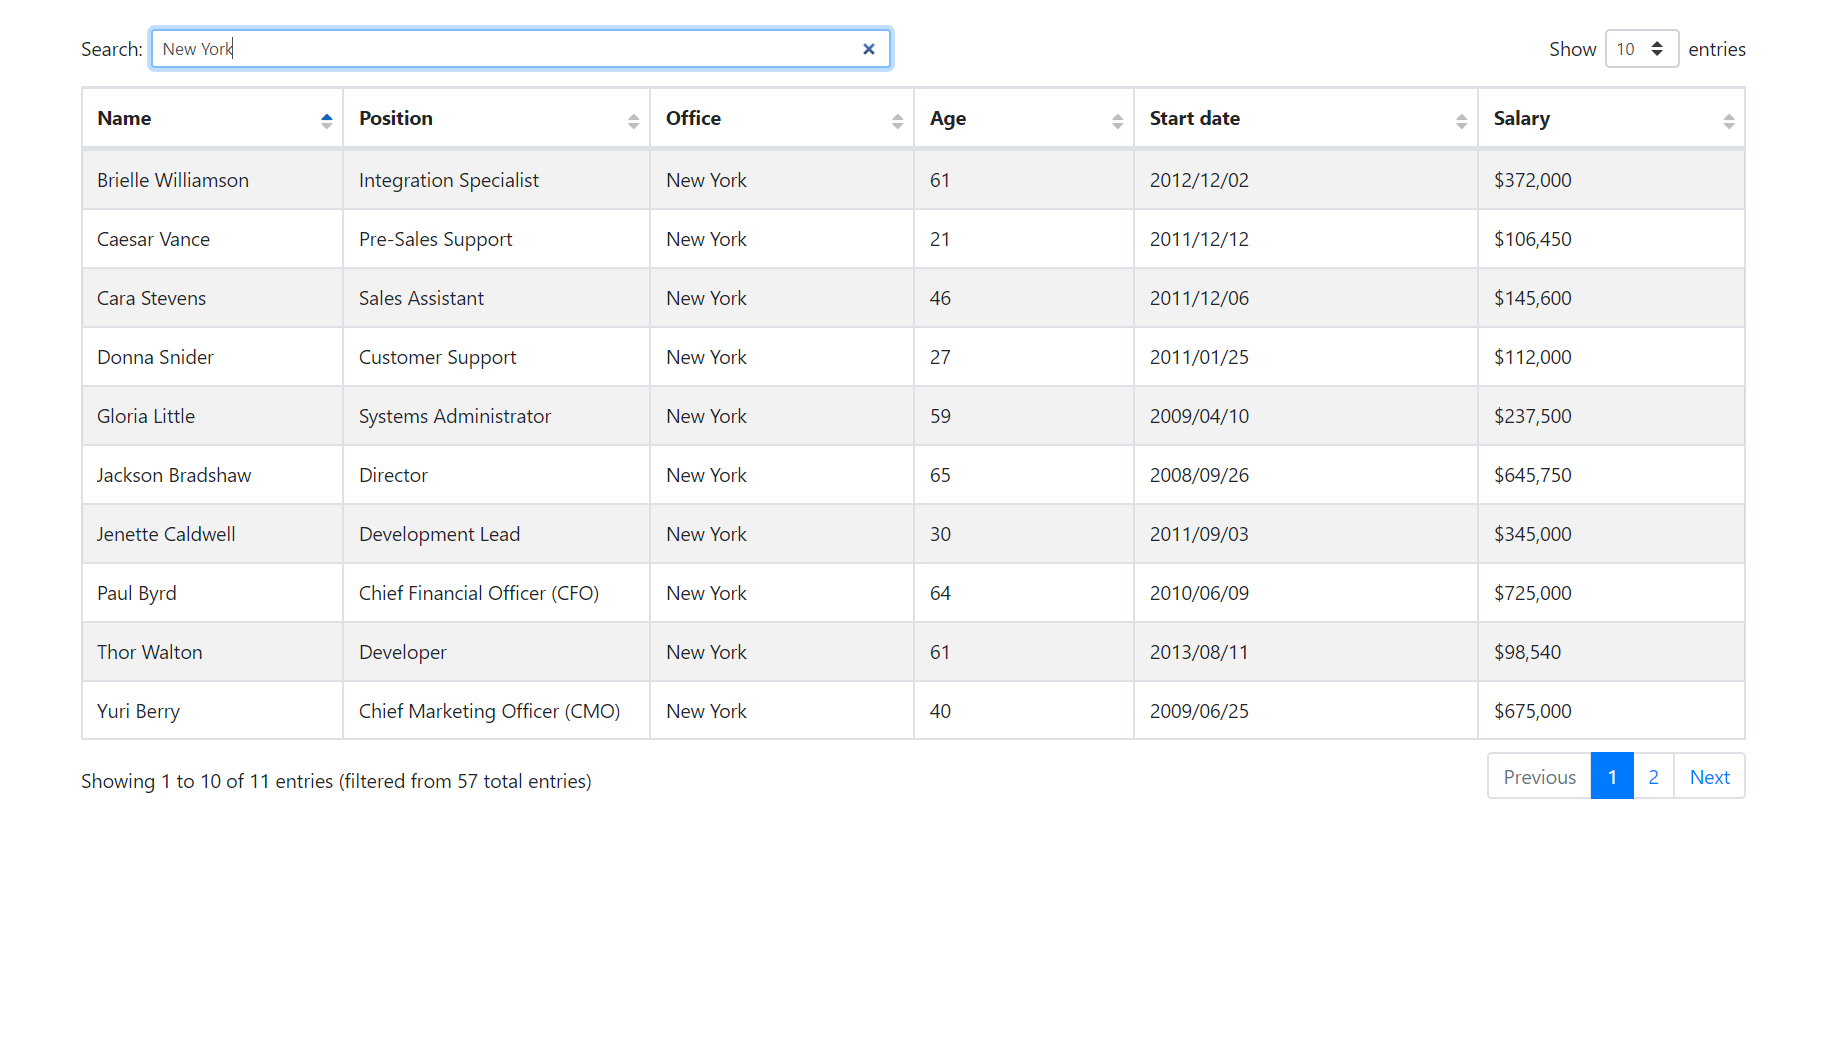
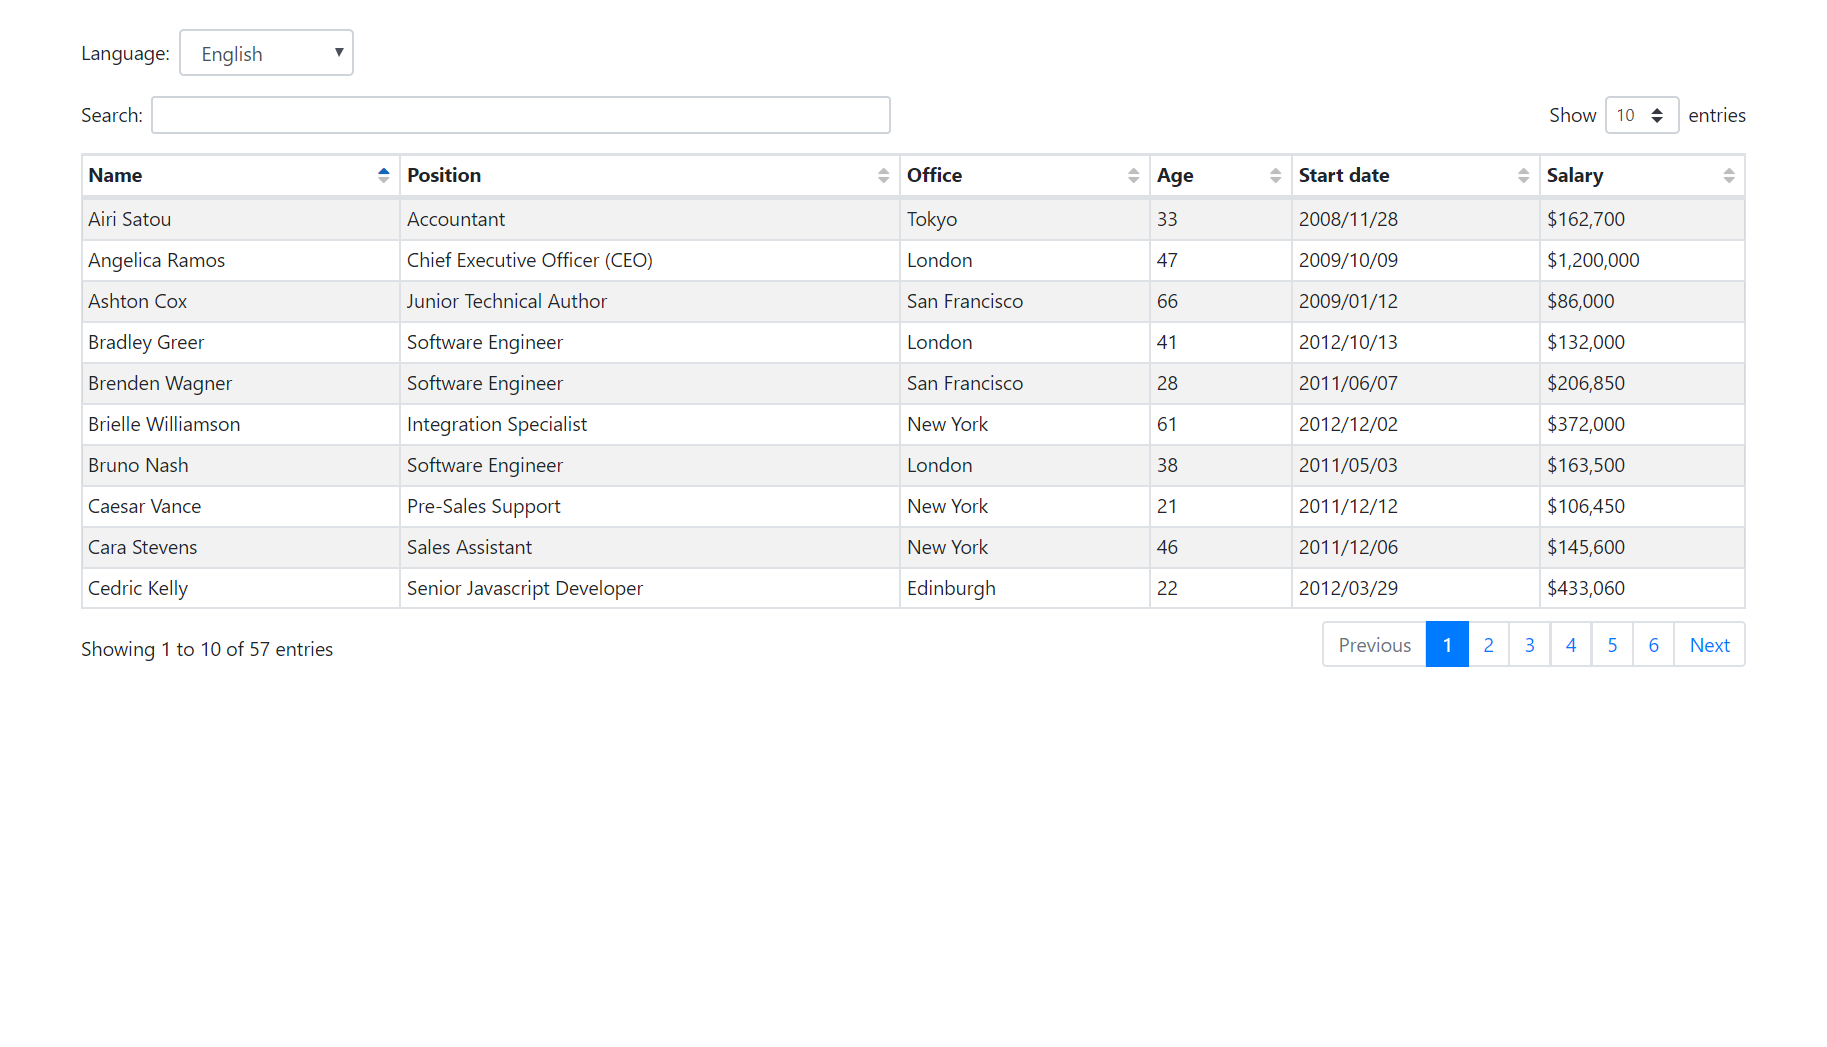
Added sample to get language selection and server side data

diff --git a/index.html b/index.html
@@ -7,81 +7,96 @@
   <link rel="stylesheet" type="text/css" href="node_modules/bootstrap/dist/css/bootstrap.min.css">
   <link rel="stylesheet" type="text/css" href="node_modules/datatables.net-bs4/css/dataTables.bootstrap4.min.css">
   <link rel="stylesheet" type="text/css" href="node_modules/@fortawesome/fontawesome-free/css/all.min.css">
-  <style>
-
-    html {
-      font-size: 13px;
-    }
-
-    /* Search filter */
-    .dataTables_filter label {
-      display: flex;
-      align-items: center;
-    }
-
-      .dataTables_filter label input[type='search'] {
-        flex: 1;
-      }
-
-    /* Number of displays */
-    .dataTables_length label {
-      display: flex;
-      justify-content: flex-end;
-      align-items: center;
-    }
-
-      .dataTables_length label select {
-        margin: 0 .5em;
-      }
-
-    /* Sort icon */
-    table.dataTable thead .sorting:before,
-    table.dataTable thead .sorting:after,
-    table.dataTable thead .sorting_asc:before,
-    table.dataTable thead .sorting_asc:after,
-    table.dataTable thead .sorting_desc:before,
-    table.dataTable thead .sorting_desc:after,
-    table.dataTable thead .sorting_asc_disabled:before,
-    table.dataTable thead .sorting_asc_disabled:after,
-    table.dataTable thead .sorting_desc_disabled:before,
-    table.dataTable thead .sorting_desc_disabled:after {
-      top: 50% !important;
-      right: .5em !important;
-      bottom: initial !important;
-      transform: translateY(-50%);
-      font-family: "Font Awesome 5 Free";
-    }
-
-    /* Ascending sort icon */
-    table.dataTable thead .sorting:before,
-    table.dataTable thead .sorting_asc:before,
-    table.dataTable thead .sorting_desc:before,
-    table.dataTable thead .sorting_asc_disabled:before,
-    table.dataTable thead .sorting_desc_disabled:before {
-      content: "\f0de";
-    }
-
-    /* Descending sort icon */
-    table.dataTable thead .sorting:after,
-    table.dataTable thead .sorting_asc:after,
-    table.dataTable thead .sorting_desc:after,
-    table.dataTable thead .sorting_asc_disabled:after,
-    table.dataTable thead .sorting_desc_disabled:after {
-      content: "\f0dd";
-    }
-
-    /* Active sort icon */
-    table.dataTable thead .sorting_asc:before,
-    table.dataTable thead .sorting_desc:after {
-      color: #16b;
-    }
-
-  </style>
+  <link rel="stylesheet" type="text/css" href="assets/style.css">
 </head>
 <body>
 
   <div class="container mt-4">
+
+    <div class="form-group form-inline align-items-center">
+      <label class="mr-2">Language:</label>
+      <select id="lang" class="form-control w-auto">
+        <option value="Afrikaans">Afrikaans</option>
+        <option value="Albanian">Albanian</option>
+        <option value="Amharic">Amharic</option>
+        <option value="Arabic">Arabic</option>
+        <option value="Armenian">Armenian</option>
+        <option value="Azerbaijan">Azerbaijan</option>
+        <option value="Bangla">Bangla</option>
+        <option value="Basque">Basque</option>
+        <option value="Belarusian">Belarusian</option>
+        <option value="Bulgarian">Bulgarian</option>
+        <option value="Catalan">Catalan</option>
+        <option value="Chinese">Chinese</option>
+        <option value="Chinese-traditional">traditional</option>
+        <option value="Croatian">Croatian</option>
+        <option value="Czech">Czech</option>
+        <option value="Danish">Danish</option>
+        <option value="Dutch">Dutch</option>
+        <option value="English" selected>English</option>
+        <option value="Esperanto">Esperanto</option>
+        <option value="Estonian">Estonian</option>
+        <option value="Filipino">Filipino</option>
+        <option value="Finnish">Finnish</option>
+        <option value="French">French</option>
+        <option value="Galician">Galician</option>
+        <option value="Georgian">Georgian</option>
+        <option value="German">German</option>
+        <option value="Greek">Greek</option>
+        <option value="Gujarati">Gujarati</option>
+        <option value="Hebrew">Hebrew</option>
+        <option value="Hindi">Hindi</option>
+        <option value="Hungarian">Hungarian</option>
+        <option value="Icelandic">Icelandic</option>
+        <option value="Indonesian-Alternative">Alternative</option>
+        <option value="Indonesian">Indonesian</option>
+        <option value="Irish">Irish</option>
+        <option value="Italian">Italian</option>
+        <option value="Japanese">Japanese</option>
+        <option value="Kazakh">Kazakh</option>
+        <option value="Khmer">Khmer</option>
+        <option value="Korean">Korean</option>
+        <option value="Kurdish">Kurdish</option>
+        <option value="Kyrgyz">Kyrgyz</option>
+        <option value="Lao">Lao</option>
+        <option value="Latvian">Latvian</option>
+        <option value="Lithuanian">Lithuanian</option>
+        <option value="Macedonian">Macedonian</option>
+        <option value="Malay">Malay</option>
+        <option value="Mongolian">Mongolian</option>
+        <option value="Nepali">Nepali</option>
+        <option value="Norwegian-Bokmal">Bokmal</option>
+        <option value="Norwegian-Nynorsk">Nynorsk</option>
+        <option value="Pashto">Pashto</option>
+        <option value="Persian">Persian</option>
+        <option value="Polish">Polish</option>
+        <option value="Portuguese-Brasil">Brasil</option>
+        <option value="Portuguese">Portuguese</option>
+        <option value="Romanian">Romanian</option>
+        <option value="Russian">Russian</option>
+        <option value="Serbian">Serbian</option>
+        <option value="Serbian_latin">Serbian_latin</option>
+        <option value="Sinhala">Sinhala</option>
+        <option value="Slovak">Slovak</option>
+        <option value="Slovenian">Slovenian</option>
+        <option value="Spanish">Spanish</option>
+        <option value="Swahili">Swahili</option>
+        <option value="Swedish">Swedish</option>
+        <option value="Tajik">Tajik</option>
+        <option value="Tamil">Tamil</option>
+        <option value="telugu">telugu</option>
+        <option value="Thai">Thai</option>
+        <option value="Turkish">Turkish</option>
+        <option value="Ukrainian">Ukrainian</option>
+        <option value="Urdu">Urdu</option>
+        <option value="Uzbek">Uzbek</option>
+        <option value="Vietnamese">Vietnamese</option>
+        <option value="Welsh">Welsh</option>
+      </select>
+    </div>
+
     <table id="table" class="table table-sm table-striped table-bordered">
+
       <thead>
         <tr>
           <th>Name</th>
@@ -99,34 +114,7 @@
   <script src="node_modules/jquery/dist/jquery.min.js"></script>
   <script src="node_modules/datatables.net/js/jquery.dataTables.js"></script>
   <script src="node_modules/datatables.net-bs4/js/dataTables.bootstrap4.min.js"></script>
-  <script>
-    (async () => {
-
-      // Data table setup
-      const dt = $('#table').DataTable({
-        columnDefs: [
-          { data: 'name', targets: 0 },
-          { data: 'position', targets: 1 },
-          { data: 'office', targets: 2 },
-          { data: 'age', targets: 3 },
-          { data: 'date', targets: 4 },
-          { data: 'salary', targets: 5 }
-        ],
-        dom: 
-          `<'row'<'col-sm-12 col-md-6'f><'col-sm-12 col-md-6'l>>
-          <'row'<'col-sm-12'tr>>
-          <'row'<'col-sm-12 col-md-5'i><'col-sm-12 col-md-7'p>>`
-      });
-
-      // Load data from server
-      const rows = await $.getJSON('data.json');
-
-      // Show data rows
-      for (let row of rows) {
-        dt.row.add(row);
-      }
-      dt.draw(false);
-    })();
-  </script>
+  <script src="node_modules/js-cookie/src/js.cookie.js"></script>
+  <script src="assets/script.js"></script>
 </body>
 </html>

diff --git a/assets/script.js b/assets/script.js
@@ -1,0 +1,74 @@
+(async () => {
+
+  /**
+   * Data table setup
+   * 
+   * @return {DataTable}
+   */
+  async function setupDataTable(lang) {
+    const langJson = JSON.parse((await $.get(`node_modules/datatables.net-plugins/i18n/${lang}.lang`)).replace(/(\/\*([\s\S]*?)\*\/)|(\/\/(.*)$)/gm, ''));
+    const dt = $('#table').DataTable({
+      columnDefs: [
+        { data: 'name', targets: 0 },
+        { data: 'position', targets: 1 },
+        { data: 'office', targets: 2 },
+        { data: 'age', targets: 3 },
+        { data: 'date', targets: 4 },
+        { data: 'salary', targets: 5 }
+      ],
+      dom:
+        `<'row'<'col-sm-12 col-md-6'f><'col-sm-12 col-md-6'l>>
+        <'row'<'col-sm-12'tr>>
+        <'row'<'col-sm-12 col-md-5'i><'col-sm-12 col-md-7'p>>`,
+      language: langJson,
+
+      // Option to get table data from server side
+      // processing: true,// Set to true to display server side data loading message.
+      serverSide: true,
+      ajax: {
+        url: 'server-side/server_processing.php',
+
+        // If you don't want to change the data structure returned by the server, customize the data with the "ajax.data" option.
+        dataFilter: data => {
+          data = JSON.parse(data);
+          data.recordsTotal = data.total;
+          data.recordsFiltered = data.total;
+          data.data = data.list;
+          return JSON.stringify(data); // return JSON string
+        }
+      }
+    });
+    return dt;
+  }
+
+  /**
+   * Table data load
+   * 
+   * @return {void}
+   */
+  async function loadTableData() {
+    const rows = await $.getJSON('data.json');
+    for (let row of rows) {
+      dt.row.add(row);
+    }
+    dt.draw(false);
+  }
+
+  // language
+  const $lang = $('#lang');
+  if (Cookies.get('lang')) {
+    $lang.val(Cookies.get('lang'));
+  }
+
+  // Data table setup
+  const dt = await setupDataTable($lang.val());
+
+  // // Load data from server
+  // loadTableData();
+
+  // Change language
+  $lang.on('change', () => {
+    Cookies.set('lang', $lang.val());
+    location.reload();
+  });
+})();

diff --git a/assets/style.css b/assets/style.css
@@ -1,0 +1,67 @@
+html {
+  font-size: 13px;
+}
+
+/* Search filter */
+.dataTables_filter label {
+  display: flex;
+  align-items: center;
+}
+
+  .dataTables_filter label input[type='search'] {
+    flex: 1;
+  }
+
+/* Number of displays */
+.dataTables_length label {
+  display: flex;
+  justify-content: flex-end;
+  align-items: center;
+}
+
+  .dataTables_length label select {
+    margin: 0 .5em;
+  }
+
+/* Sort icon */
+table.dataTable thead .sorting:before,
+table.dataTable thead .sorting:after,
+table.dataTable thead .sorting_asc:before,
+table.dataTable thead .sorting_asc:after,
+table.dataTable thead .sorting_desc:before,
+table.dataTable thead .sorting_desc:after,
+table.dataTable thead .sorting_asc_disabled:before,
+table.dataTable thead .sorting_asc_disabled:after,
+table.dataTable thead .sorting_desc_disabled:before,
+table.dataTable thead .sorting_desc_disabled:after {
+  top: 50% !important;
+  right: .5em !important;
+  bottom: initial !important;
+  transform: translateY(-50%);
+  font-family: "Font Awesome 5 Free";
+}
+
+/* Ascending sort icon */
+table.dataTable thead .sorting:before,
+table.dataTable thead .sorting_asc:before,
+table.dataTable thead .sorting_desc:before,
+table.dataTable thead .sorting_asc_disabled:before,
+table.dataTable thead .sorting_desc_disabled:before {
+  content: "\f0de";
+}
+
+/* Descending sort icon */
+table.dataTable thead .sorting:after,
+table.dataTable thead .sorting_asc:after,
+table.dataTable thead .sorting_desc:after,
+table.dataTable thead .sorting_asc_disabled:after,
+table.dataTable thead .sorting_desc_disabled:after {
+  content: "\f0dd";
+}
+
+/* Active sort icon */
+table.dataTable thead .sorting_asc:before,
+table.dataTable thead .sorting_desc:after {
+  color: #16b;
+}
+

diff --git a/server-side/server_processing.php b/server-side/server_processing.php
@@ -1,0 +1,40 @@
+<?php
+
+// Get parameters
+$draw = $_GET['draw'];// This is used by DataTables to ensure that the Ajax returns from server-side processing requests are drawn in sequence by DataTables (Ajax requests are asynchronous and thus can return out of sequence). This is used as part of the draw return parameter.
+$offset = $_GET['start'];// 
+$limit = $_GET['length'];
+$searchValue = $_GET['search']['value'];
+$sortColumnIndex = $_GET['order'][0]['column'];
+$sortColumn = $_GET['columns'][$sortColumnIndex]['data'];
+$sortOrder = $_GET['order'][0]['dir'];
+
+// Get all the rows
+$rows = json_decode(file_get_contents('data.json'), true);
+
+// Sort rows
+array_multisort(array_column($rows, $sortColumn), $sortOrder === 'asc' ? SORT_ASC : SORT_DESC, $rows);
+
+// Get only the lines that match the search word
+if (!empty($searchValue)) {
+  $rows = array_filter($rows, function(array $columns) use($searchValue) {
+    foreach($columns as $column) {
+      if(strpos($column, $searchValue) !== false) {
+        return true;
+      }
+    }
+    return false;
+  });
+}
+
+// Get a page of rows
+$list = array_slice($rows, $offset, $limit);
+$total = count($rows);
+
+// Return data as JSON
+header('Content-Type: application/json; charset=utf-8');
+echo json_encode([
+  'draw' => $draw,
+  'total' => $total,
+  'list' => $list
+]);
